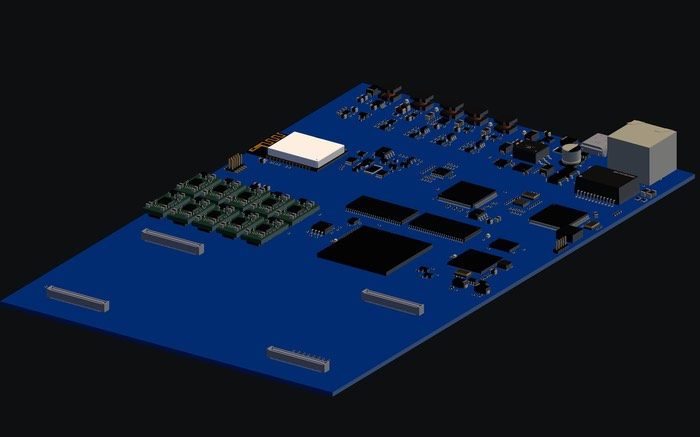
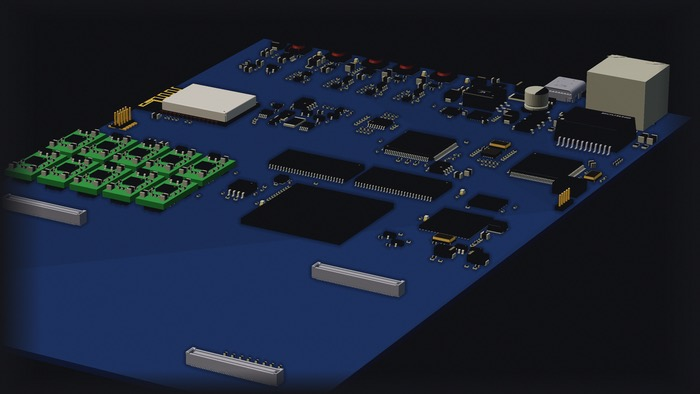
product render, second pass: fix the value inversion a designer called out
The first render put the brightest, most saturated mass in the frame on bare
soldermask while the FPGA and modules were the darkest things in it, so the eye
landed on empty FR4. The ground outranked the figure. That, not the hue, is what
made it read cheap on a dark page.

To a designer's numbers: soldermask down to #22385A at 0.40 saturation, module PCBs
up 1.25x and warmed, the bought-in ESP32 can pulled off white to #C9C3B6, a
three-sample key at az 302 el 54 so the big flat top face gets a gradient instead of
one plateau, 4.5:1 key-to-fill, an orange fresnel rim at the brand accent, screen
space contact darkening within 2.5 mm of every component footprint, a projected
ground shadow, radial background, depth fog toward the card colour, ACES tonemap,
and a dither pass because dark gradients band badly on a dark page.

Three bugs of mine on the way: the mask albedo was pre-divided so it blew out
brighter than before, shading ran on sRGB values as if they were linear, and the
black floor was applied as a lift over the whole image rather than a clamp, which
greyed the background.

Kept perspective because Pouya asked for it. Worth knowing the designer disagreed:
they judged orthographic the more professional of the three candidates, since a
diverging far edge is what a CAD viewport does. Both are rendered; switching is one
flag.

16:9 now, 124 KB, with a 46 KB phone source.

Claude-Session: https://claude.ai/code/session_01NAWjwPnMfhmibbub5iKyLE

diff --git a/product.html b/product.html
@@ -262,7 +262,7 @@
      taken on trust. */
   .board-shot { margin: 26px 0 0; border: 1px solid var(--border); border-radius: 12px;
     background: var(--surface); overflow: hidden; }
-  .board-shot img { display: block; width: 100%; height: auto; aspect-ratio: 1200 / 749; }
+  .board-shot img { display: block; width: 100%; height: auto; aspect-ratio: 1600 / 900; }
   .board-shot figcaption { border-top: 1px solid var(--border); padding: 11px 16px;
     font-family: var(--mono); font-size: 11.5px; color: var(--text-faint); }
   .panel-cta { margin-top: 44px; padding-top: 26px; border-top: 1px solid var(--border);
@@ -500,7 +500,7 @@
       <figure class="board-shot">
         <picture>
           <source media="(max-width: 700px)" srcset="/board-augur-one-700.jpg">
-          <img src="/board-augur-one.jpg" width="1200" height="749" loading="lazy" decoding="async"
+          <img src="/board-augur-one.jpg" width="1600" height="900" loading="lazy" decoding="async"
                alt="Augur One with ten analog mimic modules fitted along one edge, the FPGA and memory in the centre, DUT connectors across the board and the Ethernet jack at the far corner.">
         </picture>
         <figcaption>CAD render from the board assembly &middot; Augur One with 10 modules fitted &middot; 2026-08-03</figcaption>

diff --git a/v19/product.html b/v19/product.html
@@ -262,7 +262,7 @@
      taken on trust. */
   .board-shot { margin: 26px 0 0; border: 1px solid var(--border); border-radius: 12px;
     background: var(--surface); overflow: hidden; }
-  .board-shot img { display: block; width: 100%; height: auto; aspect-ratio: 1200 / 749; }
+  .board-shot img { display: block; width: 100%; height: auto; aspect-ratio: 1600 / 900; }
   .board-shot figcaption { border-top: 1px solid var(--border); padding: 11px 16px;
     font-family: var(--mono); font-size: 11.5px; color: var(--text-faint); }
   .panel-cta { margin-top: 44px; padding-top: 26px; border-top: 1px solid var(--border);
@@ -500,7 +500,7 @@
       <figure class="board-shot">
         <picture>
           <source media="(max-width: 700px)" srcset="/board-augur-one-700.jpg">
-          <img src="/board-augur-one.jpg" width="1200" height="749" loading="lazy" decoding="async"
+          <img src="/board-augur-one.jpg" width="1600" height="900" loading="lazy" decoding="async"
                alt="Augur One with ten analog mimic modules fitted along one edge, the FPGA and memory in the centre, DUT connectors across the board and the Ethernet jack at the far corner.">
         </picture>
         <figcaption>CAD render from the board assembly &middot; Augur One with 10 modules fitted &middot; 2026-08-03</figcaption>
